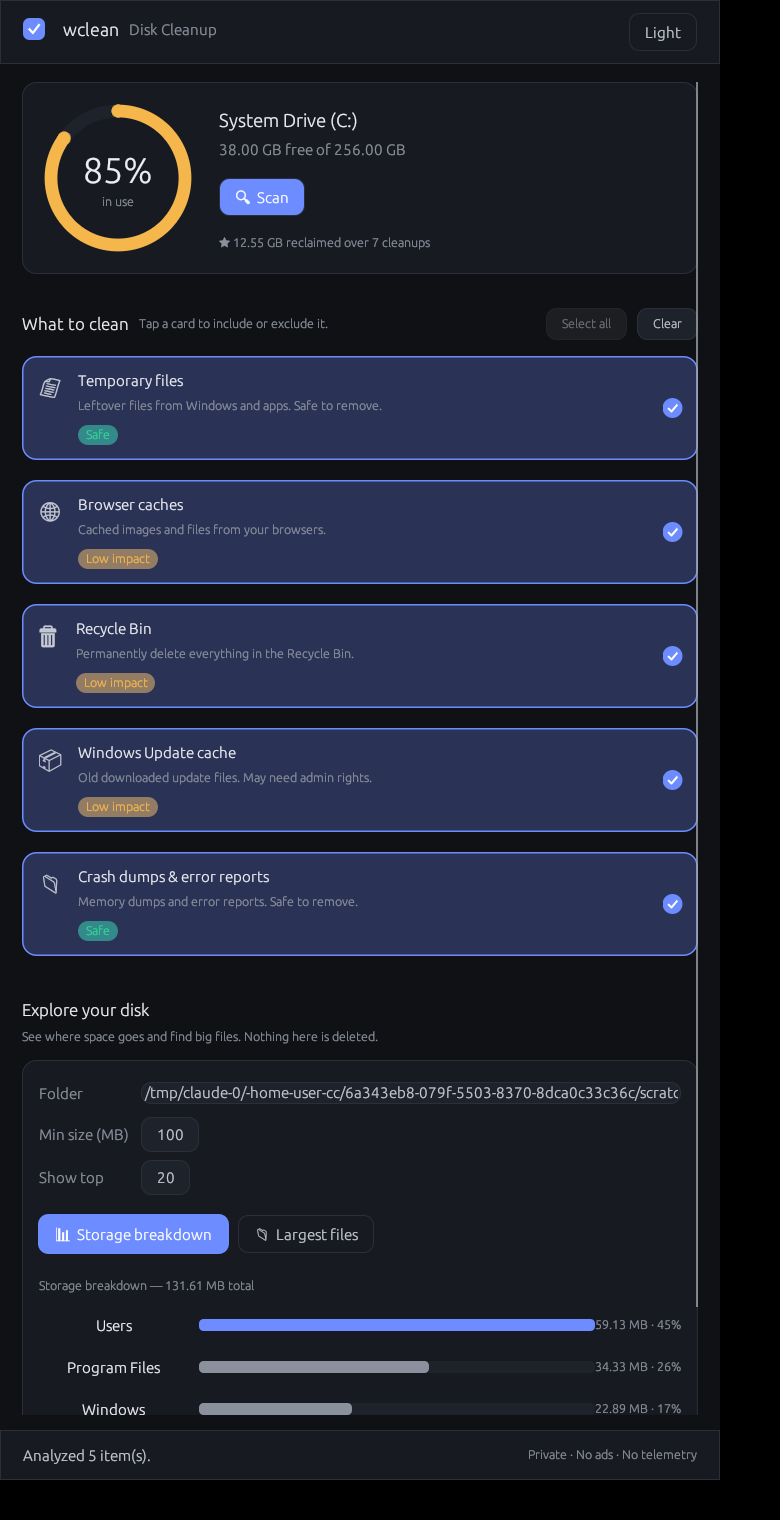
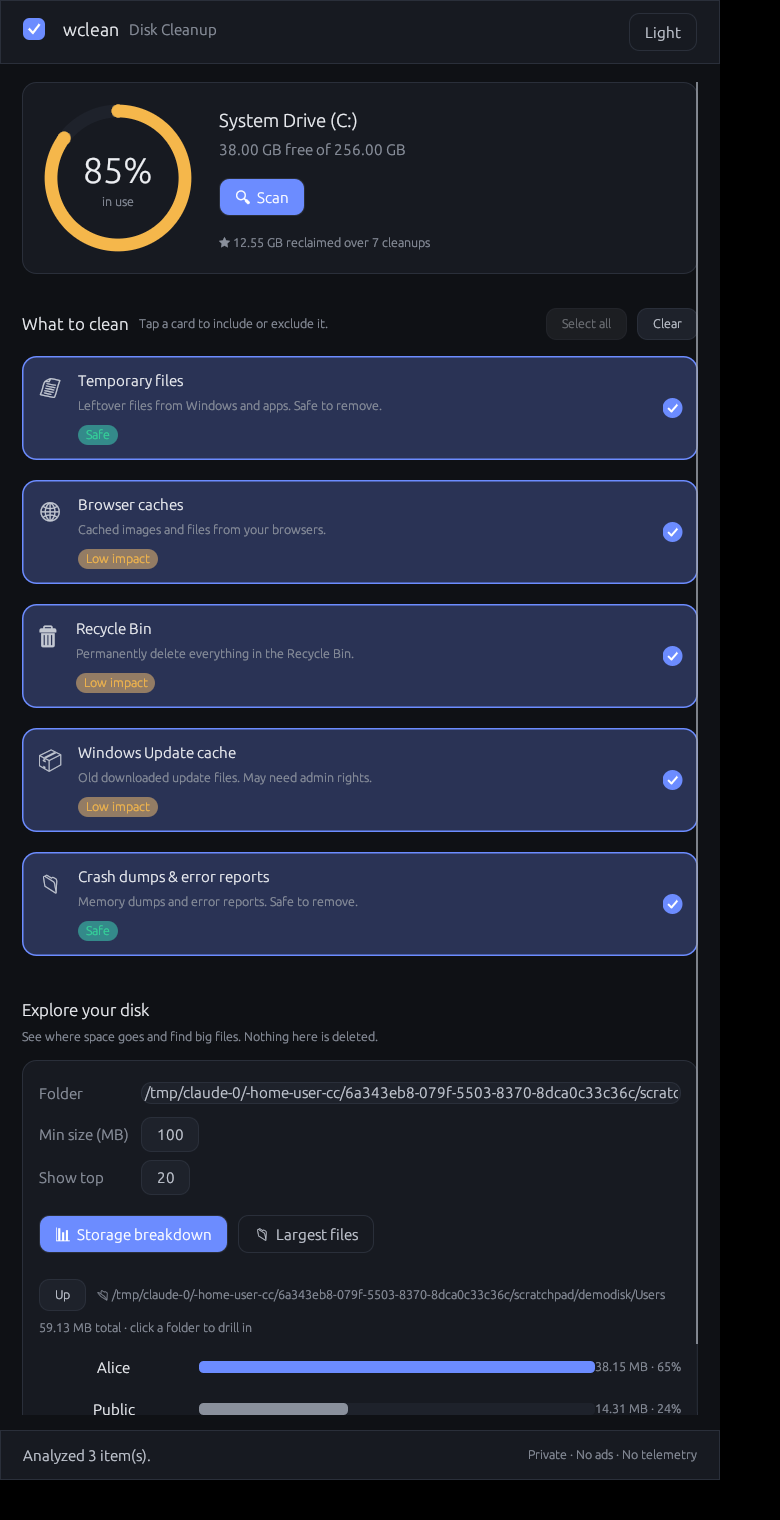
Iterate v0.7: navigable storage breakdown (explorable disk map)
Turn the storage breakdown from a single-level view into an explorable
disk map.

- Click any folder row to drill into it; a breadcrumb shows the current
  path and an "Up" button climbs back out. Reuses usage::breakdown — no
  new backend cost.
- usage_row now returns a Response and shows a pointer cursor on
  drill-able rows; folder names stay in the calm default color rather than
  all-accent, so the view reads cleanly.

Verified end-to-end under Xvfb: Storage breakdown → click "Users" →
breadcrumb updates to …/Users and the view re-renders (Alice 65% ·
Public 24%), with the Up button to return. fmt, clippy (-D warnings, all
features), 15 tests, and the Windows cross-compile all green.

Claude-Session: https://claude.ai/code/session_01VpGNAJxuUaWqgWuykqVW3P

Changed region(s): [[0.0923, 0.8349, 0.8, 0.9276], [0.0615, 0.8349, 0.0923, 0.8658]]

diff --git a/src/gui/app.rs b/src/gui/app.rs
@@ -48,6 +48,8 @@ pub struct WCleanApp {
     large_top: usize,
     large: Vec<LargeFile>,
     breakdown: Vec<UsageEntry>,
+    /// The folder the current breakdown describes (changes as you drill in).
+    breakdown_path: String,
 
     status: String,
     busy: bool,
@@ -95,6 +97,7 @@ impl WCleanApp {
             large_top: cfg.large_top.unwrap_or(20),
             large: Vec::new(),
             breakdown: Vec::new(),
+            breakdown_path: String::new(),
             status: "Ready".to_string(),
             busy: false,
             rx: None,
@@ -473,6 +476,14 @@ impl WCleanApp {
         });
     }
 
+    /// Analyze `self.breakdown_path` in the background.
+    fn start_breakdown(&mut self, ctx: &egui::Context) {
+        let path = std::path::PathBuf::from(self.breakdown_path.clone());
+        self.spawn(ctx, "Analyzing storage…", move || {
+            Job::Breakdown(usage::breakdown(&path, 14))
+        });
+    }
+
     fn categories(&mut self, ui: &mut egui::Ui, ctx: &egui::Context) {
         let p = self.mode.palette();
         ui.horizontal(|ui| {
@@ -665,10 +676,8 @@ impl WCleanApp {
                     if widgets::primary_button(ui, &p, "📊  Storage breakdown", !self.busy)
                         .clicked()
                     {
-                        let path = std::path::PathBuf::from(self.large_path.clone());
-                        self.spawn(ctx, "Analyzing storage…", move || {
-                            Job::Breakdown(usage::breakdown(&path, 14))
-                        });
+                        self.breakdown_path = self.large_path.clone();
+                        self.start_breakdown(ctx);
                     }
                     if widgets::ghost_button(ui, &p, "📁  Largest files", !self.busy).clicked() {
                         let path = std::path::PathBuf::from(self.large_path.clone());
@@ -680,13 +689,14 @@ impl WCleanApp {
                     }
                 });
 
-                self.breakdown_results(ui, &p);
+                self.breakdown_results(ui, &p, ctx);
                 self.large_results(ui, &p);
             });
     }
 
-    /// Proportional bars showing what dominates the analyzed folder.
-    fn breakdown_results(&self, ui: &mut egui::Ui, p: &theme::Palette) {
+    /// Proportional bars showing what dominates the analyzed folder, with a
+    /// breadcrumb and click-to-drill-in navigation.
+    fn breakdown_results(&mut self, ui: &mut egui::Ui, p: &theme::Palette, ctx: &egui::Context) {
         if self.breakdown.is_empty() {
             return;
         }
@@ -698,13 +708,39 @@ impl WCleanApp {
             .unwrap_or(1)
             .max(1);
         let total = usage::total(&self.breakdown);
+
         ui.add_space(space::MD);
+
+        // Breadcrumb: current path + Up (and a reminder this is navigable).
+        let current = std::path::PathBuf::from(&self.breakdown_path);
+        let parent = current.parent().map(|p| p.to_path_buf());
+        let mut go_to: Option<std::path::PathBuf> = None;
+        ui.horizontal(|ui| {
+            if ui
+                .add_enabled(
+                    !self.busy && parent.is_some(),
+                    egui::Button::new(RichText::new("Up").small()),
+                )
+                .clicked()
+            {
+                go_to = parent.clone();
+            }
+            ui.label(
+                RichText::new(format!("📂 {}", self.breakdown_path))
+                    .small()
+                    .color(p.text_muted),
+            );
+        });
         ui.label(
-            RichText::new(format!("Storage breakdown — {} total", human_bytes(total)))
-                .small()
-                .color(p.text_muted),
+            RichText::new(format!(
+                "{} total · click a folder to drill in",
+                human_bytes(total)
+            ))
+            .small()
+            .color(p.text_muted),
         );
         ui.add_space(space::XS);
+
         for (i, e) in self.breakdown.iter().enumerate() {
             let frac = e.size as f32 / max as f32;
             let pct = if total > 0 {
@@ -713,7 +749,24 @@ impl WCleanApp {
                 0
             };
             let size_text = format!("{} · {pct}%", human_bytes(e.size));
-            widgets::usage_row(ui, p, &e.name, &size_text, frac, i == 0 || e.is_loose_files);
+            let clickable = !e.is_loose_files;
+            let resp = widgets::usage_row(
+                ui,
+                p,
+                &e.name,
+                &size_text,
+                frac,
+                i == 0 || e.is_loose_files,
+                clickable,
+            );
+            if clickable && resp.clicked() {
+                go_to = Some(current.join(&e.name));
+            }
+        }
+
+        if let Some(path) = go_to {
+            self.breakdown_path = path.display().to_string();
+            self.start_breakdown(ctx);
         }
     }
 

diff --git a/src/gui/widgets.rs b/src/gui/widgets.rs
@@ -215,8 +215,9 @@ pub fn pill(ui: &mut Ui, text: &str, fg: Color32, bg: Color32) {
 
 /// One row of a storage breakdown: a name, a proportional bar, and a size.
 ///
-/// `fraction` (0..=1) sizes the filled portion of the bar; `highlight` paints
-/// it in the accent color (used for the largest / loose-files row).
+/// `fraction` (0..=1) sizes the filled portion of the bar; `accent` paints it in
+/// the accent color (the largest / loose-files row). `clickable` rows read as a
+/// drill-down link (accent name + pointer cursor). Returns the row response.
 pub fn usage_row(
     ui: &mut Ui,
     p: &Palette,
@@ -224,11 +225,14 @@ pub fn usage_row(
     size_text: &str,
     fraction: f32,
     accent: bool,
-) {
-    ui.horizontal(|ui| {
+    clickable: bool,
+) -> egui::Response {
+    let inner = ui.horizontal(|ui| {
         ui.add_sized(
             [150.0, 18.0],
-            egui::Label::new(RichText::new(name).color(p.text_strong)).truncate(),
+            egui::Label::new(RichText::new(name).color(p.text_strong))
+                .truncate()
+                .selectable(false),
         );
         // Reserve room for the size label, then fill the rest with the bar.
         let bar_w = (ui.available_width() - 86.0).max(48.0);
@@ -243,6 +247,13 @@ pub fn usage_row(
             ui.label(RichText::new(size_text).small().color(p.text_muted));
         });
     });
+
+    let resp = inner.response.interact(Sense::click());
+    if clickable {
+        resp.on_hover_cursor(egui::CursorIcon::PointingHand)
+    } else {
+        resp
+    }
 }
 
 /// A prominent filled action button.

diff --git a/README.md b/README.md
@@ -63,7 +63,8 @@ no-op), which keeps development possible off-Windows.
 - The **Large files** panel lists the biggest files under any folder (report
   only — it never deletes).
 - **Storage breakdown** — analyze a folder and see what's eating the space as
-  ranked proportional bars, before deciding what to remove.
+  ranked proportional bars. Click any folder to **drill in**, with a breadcrumb
+  and "Up" button — an explorable disk map.
 - **Drill down** into any category after a scan to preview the largest files it
   would remove — see exactly what you're deleting before you delete it.
 

diff --git a/CHANGELOG.md b/CHANGELOG.md
@@ -3,6 +3,19 @@
 All notable changes to wclean are documented here. This project adheres to
 [Semantic Versioning](https://semver.org/).
 
+## [0.7.0]
+
+### Added
+
+- **Navigable storage breakdown** — the breakdown is now an explorable disk
+  map: click any folder to drill into it, with a breadcrumb of the current path
+  and an "Up" button to climb back out. Like WinDirStat, but in-line and calm.
+
+### Changed
+
+- `usage_row` returns a `Response` and shows a pointer cursor on drill-able
+  rows; folder names stay in the calm default text color.
+
 ## [0.6.0]
 
 ### Added

diff --git a/docs/DESIGN.md b/docs/DESIGN.md
@@ -53,7 +53,8 @@ beat.
   (amber).
 - **Storage breakdown** — proportional bars that turn "where did my space go?"
   into an instant read: the dominant folder is accented and full-width, the rest
-  scale down from it. Insight without a spreadsheet.
+  scale down from it. Insight without a spreadsheet. Rows are navigable —
+  click to drill in, with a breadcrumb and "Up" to climb back out.
 - **Drill-down** — a quiet "Show details" disclosure under each scanned category
   reveals its largest files. Transparency on demand, without cluttering the
   default view.
